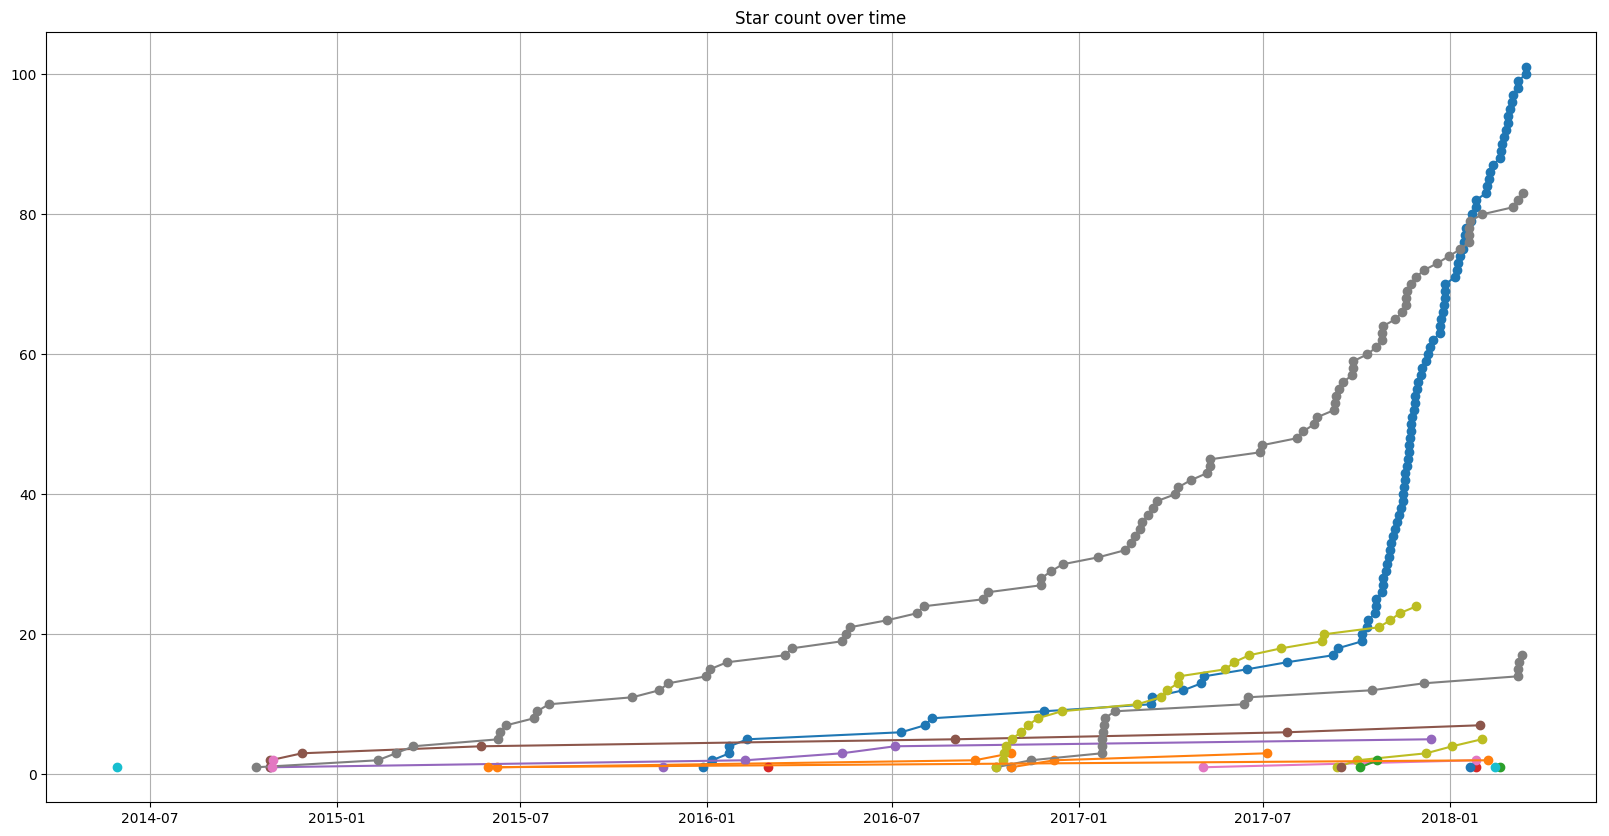
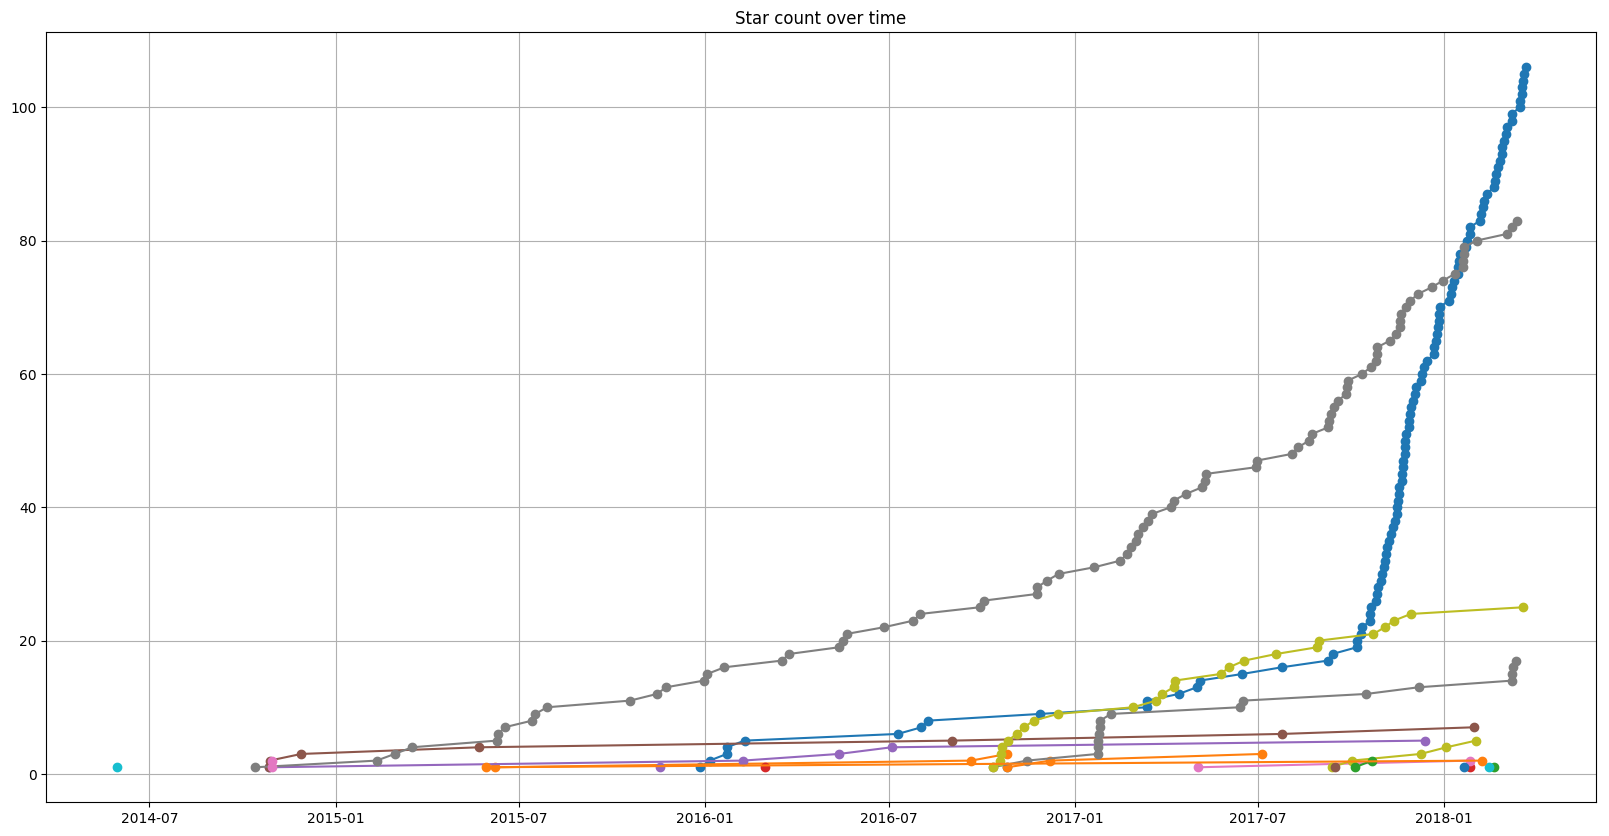
update

diff --git a/README.md b/README.md
@@ -3,7 +3,7 @@
 
 ![star plot](https://raw.github.com/FabriceSalvaire/github-map/master/star-plots/all.png)
 
-Overall stars: 265 :star:
+Overall stars: 271 :star:
 
 ## Python Packages
 
@@ -39,17 +39,17 @@ Overall stars: 265 :star:
 
 ## Python Tools for Developers
 
-* [CodeReview](https://github.com/FabriceSalvaire/CodeReview) 101 :star:</br>
+* [CodeReview](https://github.com/FabriceSalvaire/CodeReview) 106 :star:</br>
 
    CodeReview is a Git GUI tool to perform code review (Diff Viewer) written in Python3 and Qt5.
 
-   Updated on 2018-03-16
+   Updated on 2018-03-22
 
 * [github-map](https://github.com/FabriceSalvaire/github-map)
 
    A summary of my projects on Github (using API and Python)
 
-   Updated on 2017-11-26
+   Updated on 2018-03-17
 
 * [python-memo](https://github.com/FabriceSalvaire/python-memo)
 
@@ -113,7 +113,7 @@ Overall stars: 265 :star:
 
     This repository contains a database of the bouldering circuits of Fontainebleau and a web application to show and manage this database.
 
-   Updated on 2018-02-14
+   Updated on 2018-03-21
 
 * [grouped-purchase-order](https://github.com/FabriceSalvaire/grouped-purchase-order)
 
@@ -289,11 +289,11 @@ Overall stars: 265 :star:
 
 ## Web
 
-* [redmine-improved-theme](https://github.com/FabriceSalvaire/redmine-improved-theme) 24 :star:</br>
+* [redmine-improved-theme](https://github.com/FabriceSalvaire/redmine-improved-theme) 25 :star:</br>
 
    Redmine theme forked from the vanilla Redmine theme and converted to SASS
 
-   Updated on 2017-11-29
+   Updated on 2018-03-20
 
 * [css-demo](https://github.com/FabriceSalvaire/css-demo)
 
